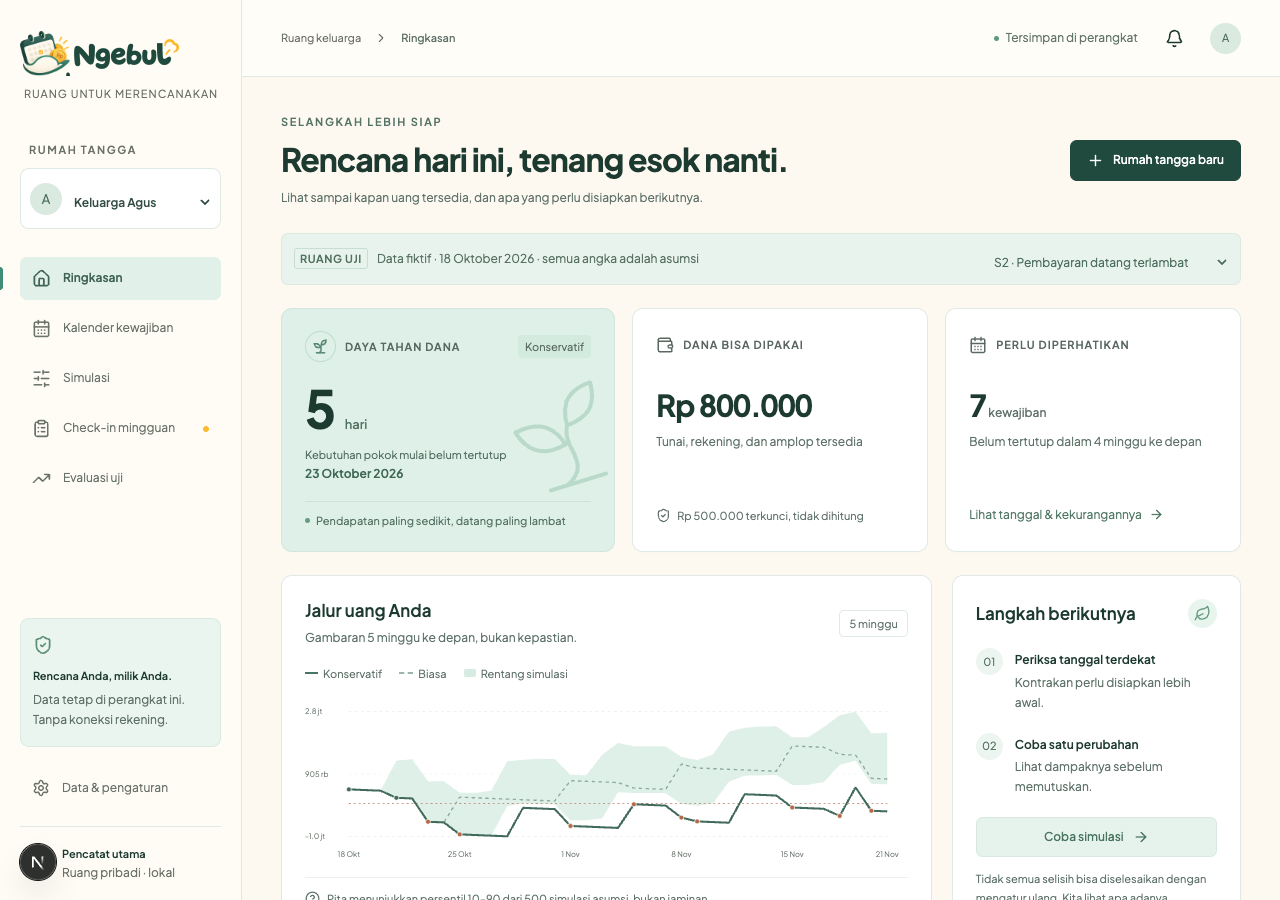
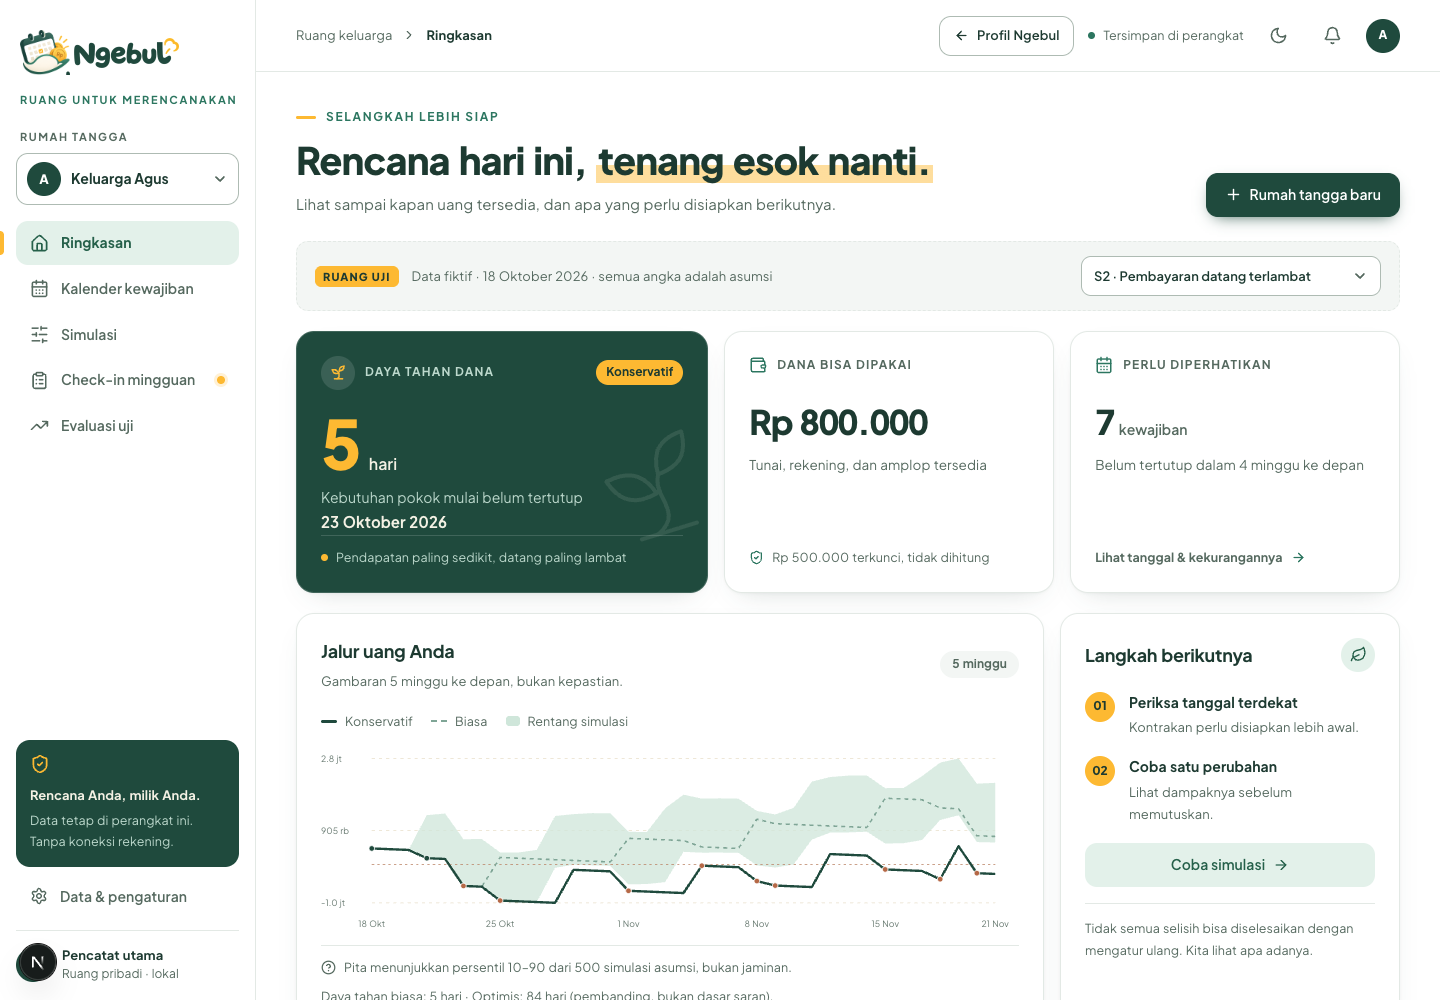
docs: perbarui README dan tangkapan layar

diff --git a/README.md b/README.md
@@ -1,18 +1,37 @@
 # Ngebul
 
-MVP perencana arus kas rumah tangga berpendapatan tidak tetap. Pertanyaan utama: **uang yang tersedia cukup sampai kapan dan kewajiban mana yang lebih dahulu belum tertutup?** Bahasa Indonesia, tampilan ponsel, Rupiah dibulatkan ke ribuan, tanpa koneksi bank, e-wallet, pembayaran, pinjaman, investasi, atau pelacak pihak ketiga.
+> Uang yang ada hari ini, cukup sampai kapan?
 
-Alat perencanaan, bukan nasihat keuangan. Perencanaan tidak dapat menyelesaikan kekurangan uang yang struktural.
+Ngebul adalah perencana arus kas untuk rumah tangga berpendapatan tidak tetap. Ia menunjukkan **tanggal pertama kebutuhan pokok belum tertutup** dan **kewajiban mana yang lebih dahulu terdampak**, memakai skenario konservatif, bukan janji. Bahasa Indonesia, Rupiah, ramah ponsel. Semua data tersimpan di perangkat; tidak ada akun, tidak ada koneksi rekening, tidak ada permintaan jaringan keluar.
+
+*Alat perencanaan, bukan nasihat keuangan. Perencanaan tidak dapat menyelesaikan kekurangan uang yang struktural.*
+
+![Ringkasan Ngebul](docs/img/01-beranda.png)
 
 ## Fitur utama
 
-| Ringkasan: daya tahan dana & jalur uang | Label struktural yang jujur |
+- **Daya tahan dana**: berapa hari kebutuhan pokok tetap tertutup, dengan jalur uang konservatif, biasa, dan rentang simulasi 500 putaran.
+- **Label struktural yang jujur**: bila pendapatan biasa tidak menutup kebutuhan pokok, aplikasi mengatakannya terus terang dan tidak memberi kesan "tinggal diatur".
+- **Kalender kewajiban**: tampilan bulan dan minggu, potensi denda, batas tenggang, dan urutan pembayaran yang dapat dijelaskan.
+- **Simulasi "bagaimana jika"**: kurangi pengeluaran fleksibel, tunda kewajiban yang diizinkan, atau tambah pendapatan, tanpa mengubah rencana utama.
+- **Check-in mingguan (± 2 menit)** dan **kalibrasi rentang** dari realisasi sungguhan.
+- **Evaluasi uji delapan minggu**: tiga mode pembanding, laporan terpisah untuk kelompok struktural.
+- **Privasi dahulu**: penyimpanan lokal, ekspor dan hapus data kapan saja, mode pendamping dengan izin, Content-Security-Policy ketat.
+- **Responsif dan mudah diakses**: dari 360 px hingga desktop, mode terang (bawaan) dan gelap, skip link, fokus terkunci di modal, kontras WCAG AA.
+
+| Label struktural | Simulasi |
 |---|---|
-| ![Ringkasan](docs/img/01-beranda.png) | ![Struktural](docs/img/02-struktural.png) |
-| **Simulasi: coba perubahan sebelum memutuskan** | **Kalender kewajiban** |
-| ![Simulasi](docs/img/03-simulasi.png) | ![Kalender](docs/img/04-kalender.png) |
+| ![Struktural](docs/img/02-struktural.png) | ![Simulasi](docs/img/03-simulasi.png) |
+| **Kalender kewajiban** | **Mode gelap** |
+| ![Kalender](docs/img/04-kalender.png) | ![Gelap](docs/img/06-gelap.png) |
+
+<p align="center"><img src="docs/img/05-mobile.png" alt="Tampilan ponsel" width="280"></p>
 
 Semua data di tangkapan layar adalah data fiktif (ruang uji).
+
+## Teknologi
+
+Next.js 15 (App Router) · React 19 · TypeScript · CSS biasa dengan token tema (Tailwind hanya untuk reset dasar) · lucide-react · Vitest · Playwright. Font di-host sendiri lewat `next/font`; tidak ada layanan pihak ketiga.
 
 ## Menjalankan
 
@@ -36,14 +55,22 @@ Pengujian UI memakai Playwright dan Chrome lokal (`CHROME_PATH` dapat diganti). 
 
 ## Struktur
 
-- `src/domain/types.ts`: rumah tangga, sumber pendapatan, dana, kewajiban, pengeluaran variabel, skenario, realisasi, check-in, periode uji, snapshot prakiraan.
-- `src/domain/config.ts`: seluruh parameter utama **asumsi, ganti dengan data nyata**.
+```
+src/
+  app/            App Router: page.tsx (profil produk), app/page.tsx (aplikasi),
+                  globals.css (profil + dasar), app.css (kulit aplikasi, token terang/gelap)
+  components/     App.tsx (UI dan formulir), Chart.tsx (grafik SVG), Reveal.tsx (animasi scroll)
+  domain/         mesin murni tanpa React/DOM: types, config, engine, evaluation, seed, privacy, dates
+public/brand/     logo, tanda, dan wordmark yang dipakai situs
+docs/img/         tangkapan layar README
+docs/audit/       laporan audit, model ancaman, keputusan, tindakan manual, rollback
+scripts/          backtest.ts (laporan berulang) dan smoke.mjs (uji UI)
+```
+
+- `src/domain/config.ts`: seluruh parameter utama, **asumsi, ganti dengan data nyata**.
 - `src/domain/engine.ts`: fungsi murni proyeksi, prioritas, Monte Carlo, struktural, kalibrasi, kesegaran, hasil peringatan.
-- `src/domain/evaluation.ts`: tiga mode pembanding dan metrik penggunaan.
 - `src/domain/seed.ts`: enam keluarga fiktif, masing-masing 14 minggu riwayat simulasi; tanggal acuan demo tetap 18 Oktober 2026 agar dapat diulang.
-- `src/components`: UI, formulir, grafik SVG yang dapat diakses tanpa layanan pihak ketiga.
-- `src/app`: App Router, metadata, dan gaya responsif.
-- `scripts/backtest.ts`: laporan yang dapat diulang.
+- Gaya aplikasi memakai satu skala jarak (4/8/12/16/24/32 px) dan satu set kontrol bersama (input, select, tombol setinggi 44 px).
 
 Modul domain tidak mengimpor React, DOM, Next.js, atau penyimpanan. Rumah tangga nyata memakai tanggal Asia/Jakarta. Demo tetap memakai tanggal acuan; jangan memakai angka demo untuk keputusan keluarga nyata.
 
@@ -193,9 +220,11 @@ Tidak ada pengiriman email/pesan, layanan keuangan, rekomendasi pinjaman, atau k
 
 ## Verifikasi implementasi
 
-- 28 unit test mesin/domain: tanggal tepat, dana terkunci/bertanggal, telat, konservatif, runway, prioritas, what-if, label struktural yang tidak hilang karena penghematan/penundaan, dana awal tidak menghapus label, stale data, seed deterministik, kalibrasi, lead time/alarm palsu, snapshot sebelum kejadian, izin pendamping, dan S1–S8.
-- Pemeriksaan TypeScript dan build produksi Next.js.
-- Smoke UI Chrome pada viewport desktop dan 390 px: semua skenario, label struktural, kalender, onboarding, check-in, evaluasi, penyimpanan setelah reload, izin pendamping, ekspor/hapus data, tanpa overflow halaman atau request pihak ketiga.
-- Screenshot hasil smoke disimpan di `artifacts/desktop.png` dan `artifacts/mobile.png` (diabaikan Git).
+- 28 unit test mesin/domain: tanggal tepat, dana terkunci/bertanggal, telat, konservatif, runway, prioritas, what-if, label struktural yang tidak hilang karena penghematan/penundaan, dana awal tidak masuk pendapatan, dan skenario S1–S8.
+- Pemeriksaan TypeScript dan build produksi Next.js; `npm audit` tanpa kerentanan.
+- Smoke UI Chrome pada desktop dan 390 px: semua skenario, label struktural, kalender, onboarding, check-in, evaluasi, penyimpanan setelah reload, izin pendamping, ekspor/hapus data, tanpa permintaan jaringan eksternal.
+- Pemeriksaan responsif pada 360, 390, 768, 1024, 1280, dan 1440 px: tanpa overflow horizontal, tanpa error console, target sentuh ≥ 40 px.
+- Modal: fokus terkunci di dalam dialog dan kembali ke pemicunya saat ditutup; isian hanya spasi ditolak.
+- Screenshot smoke disimpan di `artifacts/` (diabaikan Git).
 
 Pengujian otomatis tidak membuktikan kegunaan untuk peserta nyata, akurasi peluang, atau dampak keuangan. Lakukan uji delapan minggu dengan protokol di atas sebelum klaim manfaat.
